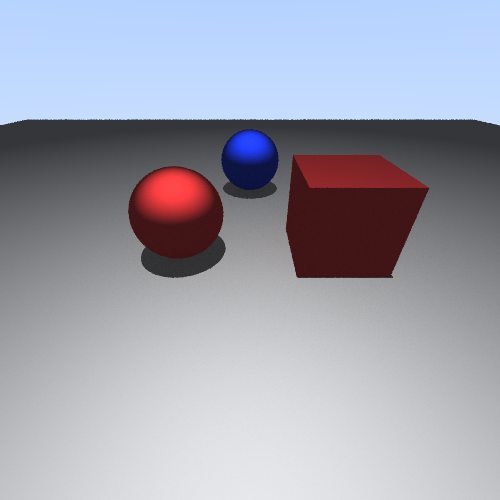
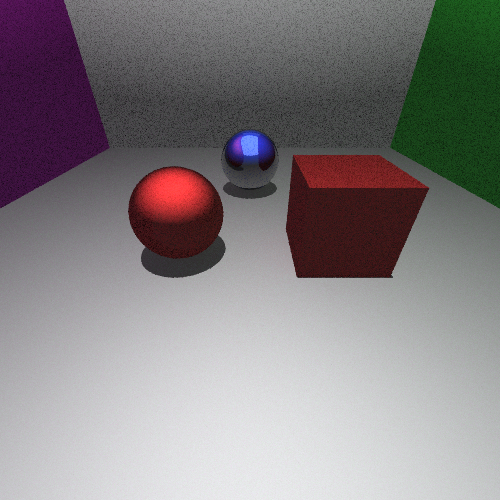
include specular reflection component

diff --git a/color.h b/color.h
@@ -14,6 +14,8 @@ Hit CalcNearestHit(const Ray &ray, World &world);
 Point randomInUnitSphere();
 glm::vec3 randomUnitVector(const glm::vec3 &normal);
 Color LambertianDiffuseComponent(const Hit &hit, World &world, int reflections);
+Color SpecularComponent(const Hit &hit, World &world, int reflections);
+Color ReflectedColor(const Hit &hit, World &world, int reflections);
 
 Color ColorPixel(const Ray &ray, World &world, int reflections)
 {
@@ -25,7 +27,7 @@ Color ColorPixel(const Ray &ray, World &world, int reflections)
   Hit hit = CalcNearestHit(ray, world);
   if (hit.distance < maxDistance)
   {
-    Color reflected = float(0.5) * LambertianDiffuseComponent(hit, world, reflections);
+    Color reflected = float(0.5) * ReflectedColor(hit, world, reflections);
     Ray rayToLight = Ray(hit.point, world.light);
     Hit hitToLight = CalcNearestHit(rayToLight, world);
     if (hitToLight.distance == maxDistance)
@@ -91,6 +93,28 @@ Color LambertianDiffuseComponent(const Hit &hit, World &world, int reflections)
 {
   Point target = hit.point + randomUnitVector(hit.normal);
   Ray reflectionRay = Ray(hit.point, target);
-  Color reflectedColor = hit.material->reflectance * ColorPixel(reflectionRay, world, reflections + 1);
+  Color reflectedColor = float(0.3) * ColorPixel(reflectionRay, world, reflections + 1);
   return (reflectedColor + hit.material->color) / float(2.0);
+}
+
+/**
+ * Calculates the specular component
+*/
+Color SpecularComponent(const Hit &hit, World &world, int reflections)
+{
+  Ray reflectionRay = Ray(hit.point, hit.reflection);
+  return hit.material->reflectance * ColorPixel(reflectionRay, world, reflections + 1);
+}
+
+Color ReflectedColor(const Hit &hit, World &world, int reflections)
+{
+  float randomNum = rand() / (RAND_MAX + 1.0);
+  if (randomNum > hit.material->reflectance)
+  {
+    return LambertianDiffuseComponent(hit, world, reflections);
+  }
+  else
+  {
+    return SpecularComponent(hit, world, reflections);
+  }
 }
